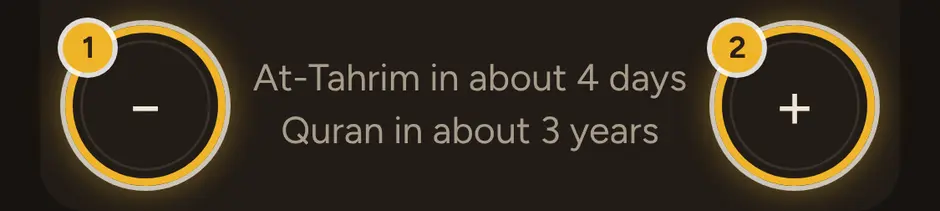
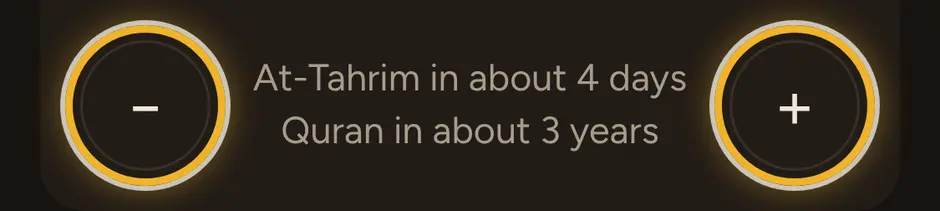
Tips: no numbers, each line names its circled button
Numbered rings and steps were too much. Each tip line now names what it
is about (the eye, the pen, Undo...), which has a plain gold ring round
it in the picture.

Claude-Session: https://claude.ai/code/session_01Co3JXumQV2vF34bDNqrmHh

Changed region(s): [[0.7404, 0.0853, 0.833, 0.3697], [0.0617, 0.0853, 0.1234, 0.3697]]

diff --git a/src/tips.ts b/src/tips.ts
@@ -15,78 +15,92 @@ export type TipId =
   | 'surahs'
   | 'history'
 
-// A tip, in words a child could follow: a short title, a line or two, and (`steps`) one line for each gold ring in its
-// picture (src/tipPictures.ts), in the rings' order. With two rings or more, the rings and the lines carry the same
-// numbers, so a glance from a number to its ring is enough. A tip's words name only what its picture shows.
-export type Tip = { id: TipId; title: string; text?: string; steps: string[]; after?: string }
+// A tip, in words a child could follow: a short title and a few short lines, each naming what it is about, which
+// has a gold ring round it in the tip's picture (src/tipPictures.ts). A tip's words name only what its picture shows.
+// `after` is a quieter last line.
+export type Tip = { id: TipId; title: string; lines: string[]; after?: string }
 
 // In the order Settings lists them: Today, then the Mushaf page, then the other screens.
 export const TIPS: Tip[] = [
   {
     id: 'hifz-amount',
     title: 'How much new Hifz?',
-    steps: ['Less each day.', 'More each day.'],
+    lines: ['Tap − or + for less or more each day.'],
     after: 'The middle shows when you will finish.',
   },
   {
     id: 'next-day',
     title: 'All done today!',
-    text: "Here is tomorrow's plan.",
-    steps: ['Tapped one by mistake? Tap Undo.'],
+    lines: ["Here is tomorrow's plan.", 'Tapped one by mistake? Tap Undo.'],
   },
   {
     id: 'hifz-page',
     title: 'Hifz, ayah by ayah',
-    text: 'Learn one ayah at a time.',
-    steps: ['Know it? Tap for the next ayah.', 'Start from the middle of the page.', '× Leave ayah by ayah, and see the whole page.'],
+    lines: [
+      'Learn one ayah at a time.',
+      'Know it? Tap "+\u00a0ayah" for the next one.',
+      '"2.\u00a0Half" starts from the middle of the page.',
+      '× leaves ayah by ayah, and shows the whole page.',
+    ],
     after: 'Buttons gone? Tap the screen.',
   },
   {
     id: 'rabt-page',
     title: 'Rabt on the page',
-    steps: ['Green triangles show where to start and stop.', 'One ayah at a time.', 'Hide the ayahs, to test yourself.', 'Mark weak spots in red.'],
+    lines: [
+      'Green triangles show where to start and stop.',
+      '"Ayah by ayah" shows one ayah at a time.',
+      'The eye hides the ayahs, to test yourself.',
+      'The pen marks weak spots in red.',
+    ],
     after: 'Buttons gone? Tap the screen.',
   },
   {
     id: 'muraja-page',
     title: "Muraja'a on the page",
-    steps: ['Green triangles show where to start and stop.', 'One ayah at a time.', 'Hide the ayahs, to test yourself.', 'Mark weak spots in red.'],
+    lines: [
+      'Green triangles show where to start and stop.',
+      '"Ayah by ayah" shows one ayah at a time.',
+      'The eye hides the ayahs, to test yourself.',
+      'The pen marks weak spots in red.',
+    ],
     after: 'Buttons gone? Tap the screen.',
   },
   {
     id: 'ayah-by-ayah',
     title: 'Ayah by ayah',
-    text: 'Only the ayahs you add show, nice and big.',
-    steps: ['Know it? Tap for the next ayah.', 'Start from the middle of the page.', '× Leave ayah by ayah, and see the whole page.'],
+    lines: [
+      'Only the ayahs you add show, nice and big.',
+      'Know it? Tap "+\u00a0ayah" for the next one.',
+      '"2.\u00a0Half" starts from the middle of the page.',
+      '× leaves ayah by ayah, and shows the whole page.',
+    ],
   },
   {
     id: 'hide',
     title: 'Test yourself',
-    text: 'All the ayahs are hidden.',
-    steps: ['Tap an ayah to peek. Tap again to hide it.', 'Show all the ayahs again.'],
+    lines: ['All the ayahs are hidden.', 'Tap an ayah to peek. Tap again to hide it.', 'The eye shows them all again.'],
   },
   {
     id: 'pen',
     title: 'The red pen',
-    steps: ['Draw with your finger on weak spots.', 'Rub it all out.', 'Turn the page.'],
+    lines: ['Draw with your finger on weak spots.', 'The bin rubs it all out.', '‹ and › turn the page.'],
   },
   {
     id: 'rate',
     title: 'How well do you know it?',
-    steps: ['Tap the star.', 'Pick from Weak to Strong.'],
+    lines: ['Tap the star, then pick from Weak to Strong.'],
     after: 'It never changes your plan.',
   },
   {
     id: 'surahs',
     title: 'Your Surahs',
-    text: 'Grouped from strong to weak.',
-    steps: ['Tap a Surah to rate it.', 'Open it in the Mushaf.'],
+    lines: ['Grouped from strong to weak.', 'Tap a Surah to rate it.', 'The book opens it in the Mushaf.'],
   },
   {
     id: 'history',
     title: 'Keep your progress safe',
-    text: 'It lives only on this phone.',
-    steps: ['Save a copy now and then.', 'Get it back on a new phone.'],
+    lines: ['It lives only on this phone.', 'Back up now and then, to save a copy.', 'Restore gets it back on a new phone.'],
   },
 ]
 

diff --git a/src/TipText.tsx b/src/TipText.tsx
@@ -9,27 +9,13 @@ const withSymbols = (line: string) =>
     </span>
   ))
 
-// A tip's words, in the popup and in the tips from Settings. With two steps or more, each starts with a gold number
-// like the one on its ring in the picture.
+// A tip's words, in the popup and in the tips from Settings: a short paragraph for each line.
 export default function TipText({ tip }: { tip: Tip }) {
-  const numbered = tip.steps.length > 1
   return (
     <div className="tip-text">
-      {tip.text && <p>{tip.text}</p>}
-      {numbered ? (
-        <ol className="tip-steps">
-          {tip.steps.map((step, i) => (
-            <li key={step}>
-              <span className="tip-number" aria-hidden="true">
-                {i + 1}
-              </span>
-              <span>{withSymbols(step)}</span>
-            </li>
-          ))}
-        </ol>
-      ) : (
-        tip.steps.map((step) => <p key={step}>{withSymbols(step)}</p>)
-      )}
+      {tip.lines.map((line) => (
+        <p key={line}>{withSymbols(line)}</p>
+      ))}
       {tip.after && <p className="tip-after">{tip.after}</p>}
     </div>
   )

diff --git a/src/index.css b/src/index.css
@@ -1072,23 +1072,6 @@ select, input[type='number'] {
 /* A line for each button a tip explains, a little apart. */
 .tip-text { display: grid; gap: var(--space-2); margin-bottom: var(--space-5); }
 .tip .tip-text p { margin: 0; }
-/* Numbered steps: a gold number like the one on its ring in the picture, then a few words. */
-.tip-steps { list-style: none; margin: 0; padding: 0; display: grid; gap: var(--space-2); }
-.tip-steps li { display: flex; align-items: flex-start; gap: var(--space-3); }
-.tip-number {
-  flex: none;
-  width: 24px;
-  height: 24px;
-  margin-top: 0.05em; /* level with the line's first words */
-  border-radius: 50%;
-  display: grid;
-  place-items: center;
-  background: var(--ring);
-  color: var(--on-ring);
-  font-size: 0.8125rem;
-  font-weight: 700;
-  font-variant-numeric: tabular-nums;
-}
 .tip-after { color: var(--ink-faded); }
 .tip-symbol { font-size: 1.5em; font-weight: 600; line-height: 0; vertical-align: -0.1em; color: var(--exit); }
 @keyframes tip-fade { from { opacity: 0; } }

diff --git a/src/theme.css b/src/theme.css
@@ -21,8 +21,6 @@
   --lapis-wash: #e3ebec; /* quiet lapis tint behind done items */
   --alert: #9a3b2e;
   --exit: #c62f2f; /* the × that leaves a mode, as written in a tip: the red of its button */
-  --ring: #f0b429; /* the gold rings in tip pictures, and the numbers that match them */
-  --on-ring: #2a2118;
 
   /* Type */
   --font-ui: 'Figtree Variable', system-ui, -apple-system, 'Segoe UI', sans-serif;

diff --git a/PLAN.md b/PLAN.md
@@ -57,7 +57,7 @@ Changes from my note cards. I rate each Surah myself (★ weak, ★½ last page 
 35. ✅ **Tip wording for × and fading buttons** (builder's request): in the Hifz and Ayah by ayah tips, × leaves ayah by ayah for the normal Mushaf page, and the × in a tip's words is drawn larger, bolder and red, like the button (a lighter red in dark mode, to stay readable). The Hifz, Rabt and Muraja'a tips end "If the buttons fade, tap the screen to show them again."
 36. ✅ **"2. Half"** (builder's request): the button and every mention of it are capitalised, "2. Half".
 37. ✅ **"Surah (Juz n)" in the Mushaf header** (builder's request): the header reads "Al-Jathiyah (Juz 25)" instead of "Al-Jathiyah – Juz 25". When the rating's stars leave too little room, "(Juz n)" is left out (never wrapped to a second line) instead of the name being cut short; the page number stays centred. Only a name too long on its own (Al-Muzzammil on a 320px phone) is shortened with "…".
-38. ✅ **Onboarding and tips a child could follow** (builder's request): each intro card is one idea in a few words with a big picture: the three kinds as three tiles with little pictures (new, recent, old); the Done buttons ticking one after the other, then "Tomorrow's plan is ready"; the Mushaf; the page's own buttons (Ayah by ayah, hide, pen) as they look on the page, each with a few words; and the Surahs. The sketches come in once with a short animation (none with reduced motion). Each tip is a short title, a line or two, and a numbered step for each gold ring in its picture: with two rings or more, the rings and the steps carry matching gold numbers. Setup and Settings use simpler words.
+38. ✅ **Onboarding and tips a child could follow** (builder's request): each intro card is one idea in a few words with a big picture: the three kinds as three tiles with little pictures (new, recent, old); the Done buttons ticking one after the other, then "Tomorrow's plan is ready"; the Mushaf; the page's own buttons (Ayah by ayah, hide, pen) as they look on the page, each with a few words; and the Surahs. The sketches come in once with a short animation (none with reduced motion). Each tip is a short title and a few short lines, each naming what it is about (the eye, the pen, Undo…), which has a plain gold ring round it in the picture (numbered rings were tried and dropped as too much). Setup and Settings use simpler words.
 ## How we'll know it works
 
 1. Rate al-Mulk ★★★ and al-Qalam ★: the Surahs screen shows al-Mulk under strong and al-Qalam under weak, and both are still there after a Backup and restore.
